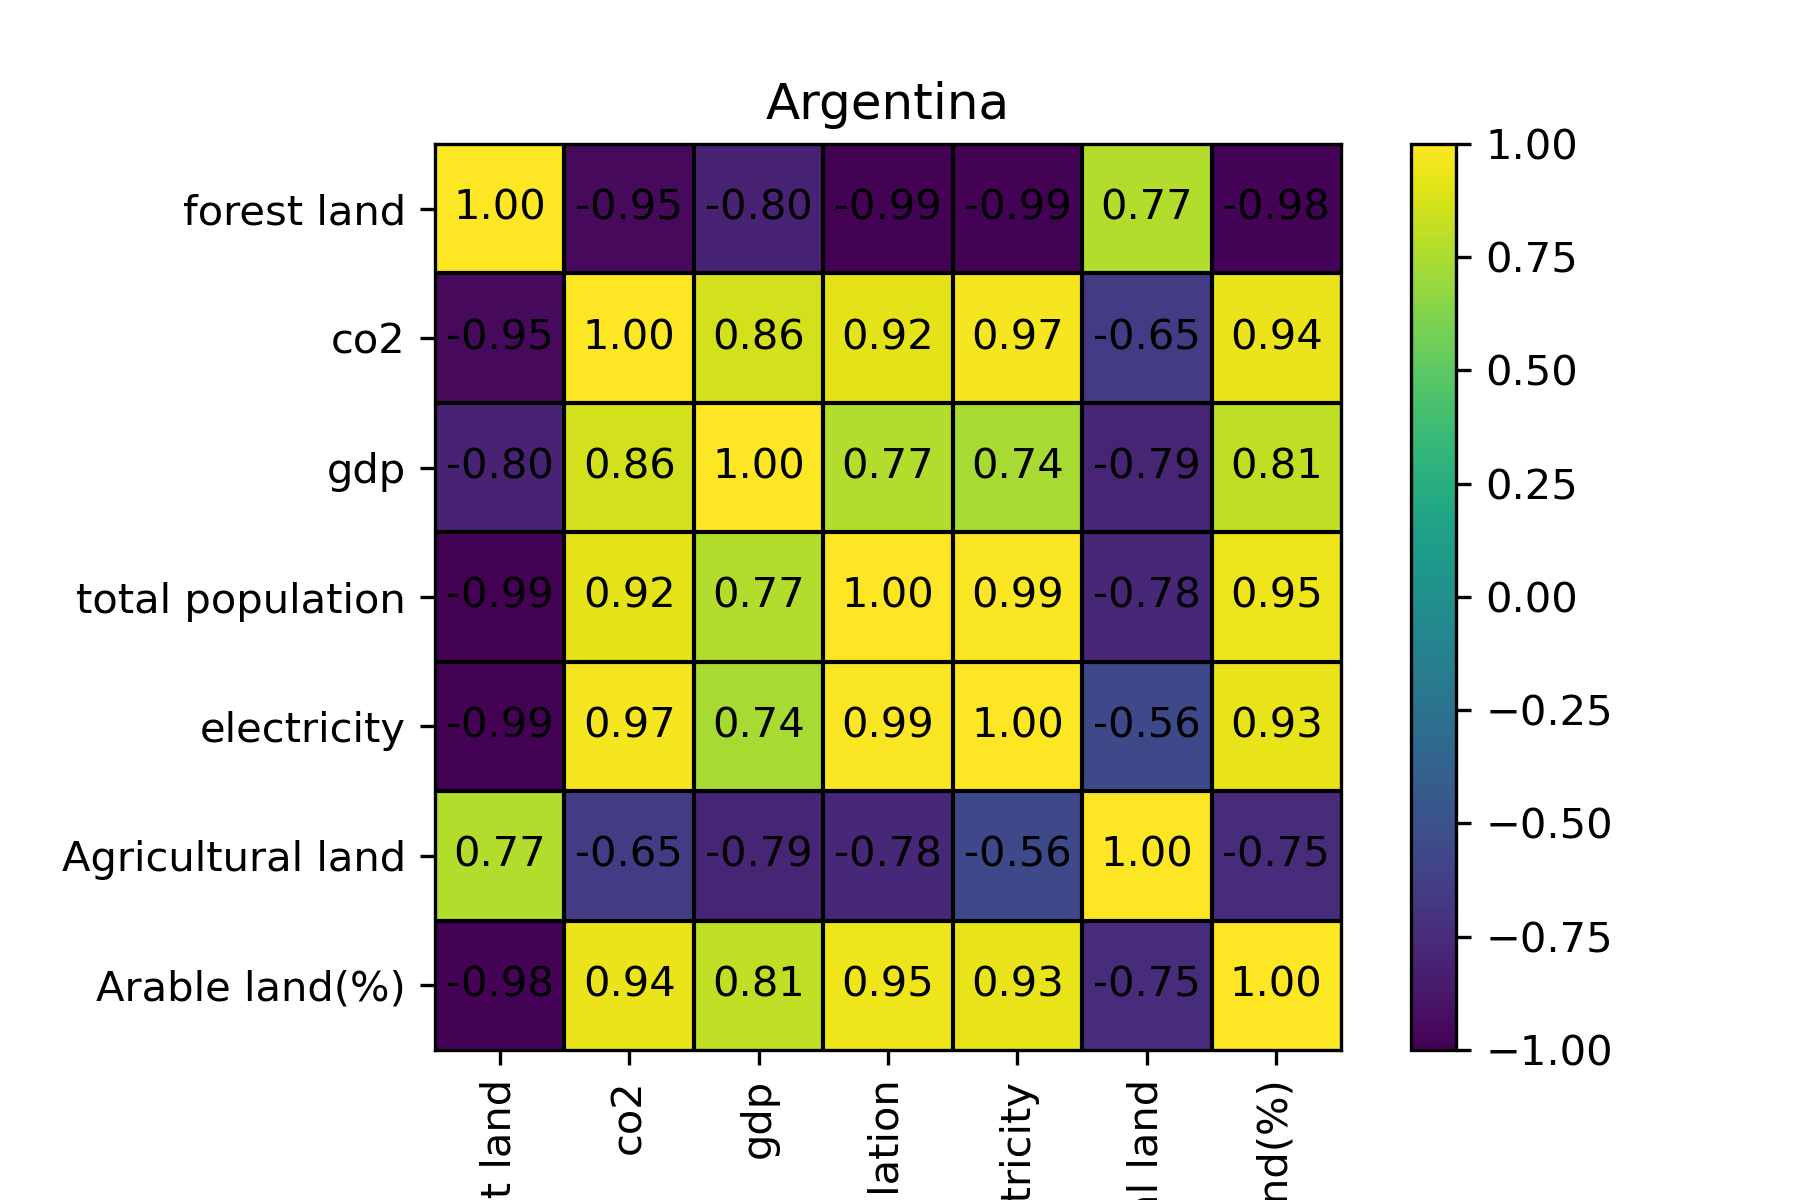
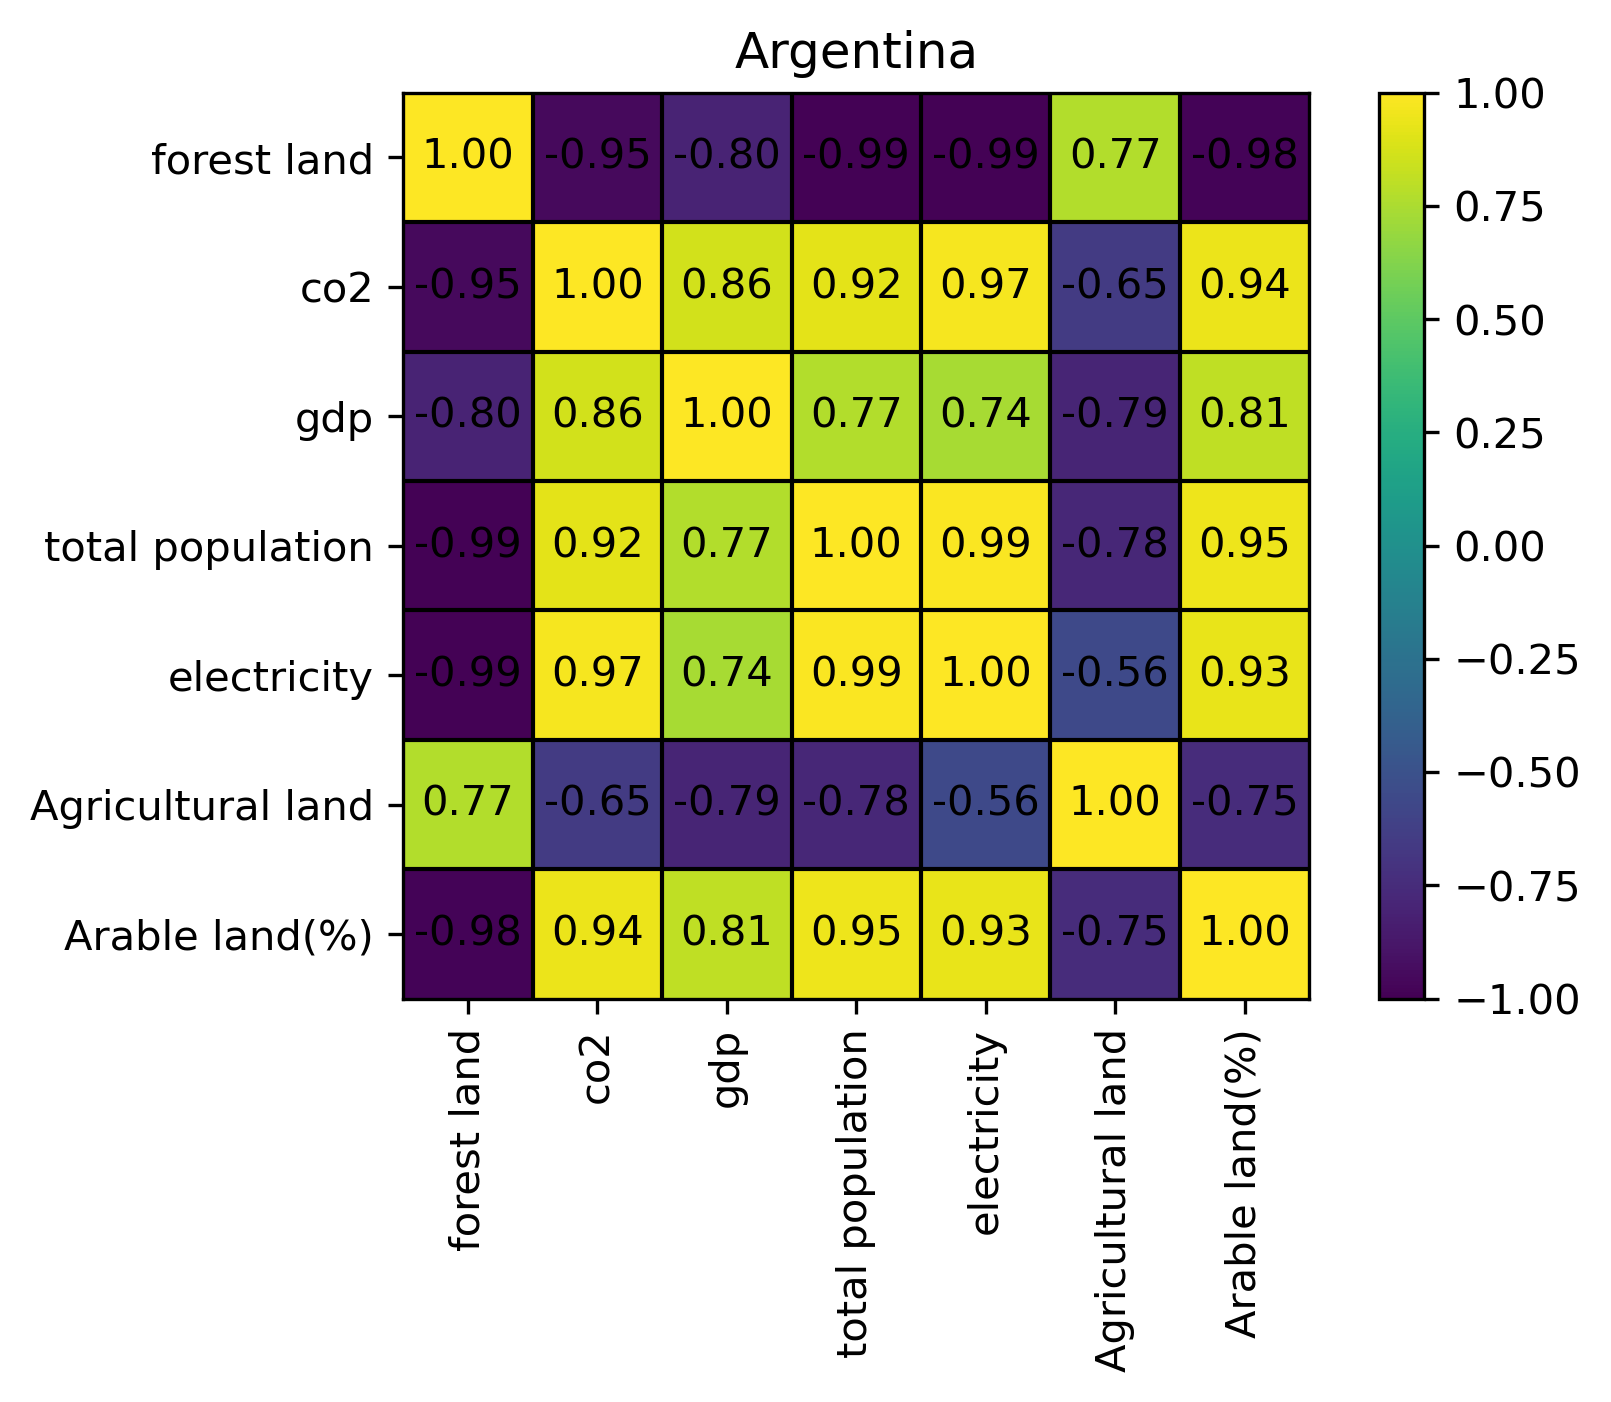
code refactor and add doc string and comments. Also update code to save heigh resolution image

diff --git a/assigment2.py b/assigment2.py
@@ -12,22 +12,24 @@ import matplotlib.pyplot as plt
 
 def read_world_bank_csv(filename):
     """
-    Accept the filename and reads csv in worldbank data formate. 
-
-    and processes and prepare two dataframes by yeas as columns and country 
-    as columns.
+    Accept the csv filename with worldbank data format.
+    Read file and processes and prepare two dataframes by yeas as index
+    and country as index.
 
     Parameters
     ----------
     filename : string
-        input the file name.
+        nput the csv file name..
 
     Returns
     -------
-    pandas dataframe
-        return two dataframes.
+    df_year_index : pandas.DataFrame
+        DataFrame with years as index.
+    df_country_index : pandas.DataFrame
+        DataFrame with country as index.
 
     """
+    # set year range and country list to filter dataset
     start_from_yeart = 1990
     end_to_year = 2020
     countrie_list = ["Brazil", "Indonesia", "Russian Federation", "Argentina",
@@ -36,178 +38,192 @@ def read_world_bank_csv(filename):
     # read csv using pandas
     wb_df = pd.read_csv(filename,
                         skiprows=3, iterator=False)
+
+    # clean na data, remove columns
     wb_df.dropna(axis=1)
+
+    # prepare column list to select from dataset
     years_column_list = np.arange(
         start_from_yeart, (end_to_year+1)).astype(str)
     all_cols_list = ["Country Name"] + list(years_column_list)
 
-    # Filter data: select only specific countries and years
+    # filter data: select only specific countries and years
     df_country_index = wb_df.loc[
         wb_df["Country Name"].isin(countrie_list),
         all_cols_list]
-    
-    #make country as index
+
+    # make country as index and then drop column as it is become index
     df_country_index.index = df_country_index["Country Name"]
-    # remove first row as it is become index
     df_country_index.drop("Country Name", axis=1, inplace=True)
-   
-    #convert year columns as interger
+
+    # convert year columns as interger
     df_country_index.columns = df_country_index.columns.astype(int)
 
-    # Transpose
+    # Transpose dataframe and make country as index
     df_year_index = pd.DataFrame.transpose(df_country_index)
-   
+
+    # return the two dataframes year as index and country as index
     return df_year_index, df_country_index
 
 
-def normalise_data(df):
+def normalise_data(df_to_normal):
     """
-
+    Normalise the dataset within 0 to 100 range.
 
     Parameters
     ----------
-    df : TYPE
-        DESCRIPTION.
+    df_to_normal : pandas.DataFrame
+        dataframe to be normalise
 
     Returns
     -------
-    df_n : TYPE
-        DESCRIPTION.
+    df_nornal : pandas.DataFrame
+        normalise data.
 
     """
-    # dfmin = np.min(np.min(df))
-    # dfmax = np.max(np.max(df))
-    dfmin = df.min()
-    dfmax = df.max()
-    df_n = (df-dfmin)/(dfmax-dfmin) * 100
-    return df_n
+    # get the min and max from the data
+    dfmin = df_to_normal.min()
+    dfmax = df_to_normal.max()
+
+    # apply formula and normalise data
+    df_nornal = (df_to_normal-dfmin)/(dfmax-dfmin) * 100
+    return df_nornal
 
 
-def print_statics(title, df, country="All"):
+def print_statics_summary(title, df_for_stat, country="All"):
     """
-    
+    Shoe statics summary of dataset like describe function output, kurtosis,
+    skew and median
 
     Parameters
     ----------
-    title : TYPE
-        DESCRIPTION.
-    df : TYPE
-        DESCRIPTION.
+    title : string
+        Title of the summary.
+    df_for_stat : pandas.DataFrame
+        dataframe for which statics summary display.
+    country : string, optional
+        filter summery for specify country. The default is "All".
 
     Returns
     -------
     None.
 
     """
-    if(country!="All"):
-        df = df[country]
-        title = title+"(" + country +")"
-    print("\n====",  (title+" ").ljust(65, "=")  )
-    
-    
-    
-    # print describe function,it will display count, mean, std, min..etc 
-    df_describe = df.describe()
-    
-    # add two other statics method kurtosis 
-    # to see the tailedness vs heavy tails 
-    # and skew to see skewness(Negative, Positive , Zero)
-    df_describe.loc["kurtosis"]  = df.kurtosis()
-    df_describe.loc["skew"]  = df.skew()
-    df_describe.loc["median"]  = df.median()
+    # check if country is passed in parameter, then filter the supplied
+    # dataframe else process all country
+    if (country != "All"):
+        df_for_stat = df_for_stat[country]
+        title = title+"(" + country + ")"
+    print("\n====",  (title+" ").ljust(65, "="))
 
+    # print describe function,it will display count, mean, std, min..etc
+    df_describe = df_for_stat.describe()
+
+    # add three other statics method kurtosis
+    # to see the tailedness vs heavy tails
+    # and skew to see skewness(Negative, Positive , Zero) and median
+    df_describe.loc["kurtosis"] = df_for_stat.kurtosis()
+    df_describe.loc["skew"] = df_for_stat.skew()
+    df_describe.loc["median"] = df_for_stat.median()
+
+    # print summary
     print(df_describe)
-    print("".ljust(70, "=") ,"\n")
+    print("".ljust(70, "="), "\n")
 
 
-def plot_and_save_line_chart(fig_name, title, xlabel, ylabel, df):
+def plot_and_save_line_chart(df_chart, title, xlabel, ylabel, fig_name):
     """
-    
+    Create line chart using df_chart dataframe and save the figure on disk.
 
     Parameters
     ----------
-    fig_name : TYPE
-        DESCRIPTION.
-    title : TYPE
-        DESCRIPTION.
-    xlabel : TYPE
-        DESCRIPTION.
-    ylabel : TYPE
-        DESCRIPTION.
-    df : TYPE
-        DESCRIPTION.
+    df_chart : pandas.DataFrame
+        create line chart for df_chart.
+    title : string
+        title of the chart.
+    xlabel : string
+        set x label.
+    ylabel : string
+        set y label.
+    fig_name : string
+        chart image name.
 
     Returns
     -------
     None.
 
     """
-    plt.figure(figsize=(10, 6))
-    ap = df.plot(title=title)
-    # ap.set_ylim(0,100)
+    # plot line chart and set xlabel and ylabel
+    plt.figure()
+    plot = df_chart.plot(title=title)
+    plot.set_xlabel(xlabel)
+    plot.set_ylabel(ylabel)
     
-    ap.set_xlabel(xlabel)
-    ap.set_ylabel(ylabel)
-    fig = ap.get_figure()
-    fig.savefig(fig_name, dpi=300)
+    # get figure object from pandas plot and save the image on disk
+    fig = plot.get_figure()
+    fig.savefig(fig_name, dpi=300, bbox_inches="tight")
 
 
-def plot_and_save_bar_chart(fig_name, title, xlabel, ylabel, df):
+def plot_and_save_bar_chart(df_chart, title, xlabel, ylabel, fig_name):
     """
-    
+    Create bar chart using df_chart dataframe and save the figure on disk.
 
     Parameters
     ----------
-    fig_name : TYPE
-        DESCRIPTION.
-    title : TYPE
-        DESCRIPTION.
-    xlabel : TYPE
-        DESCRIPTION.
-    ylabel : TYPE
-        DESCRIPTION.
-    df : TYPE
-        DESCRIPTION.
+    df_chart : pandas.DataFrame
+        create bar chart for df_chart.
+    title : string
+        title of the chart.
+    xlabel : string
+        set x label.
+    ylabel : string
+        set y label.
+    fig_name : string
+        chart image name.
 
     Returns
     -------
     None.
 
     """
-    plt.figure(figsize=(10, 6))
-    ap = df.plot.bar(title=title)
-    # ap.set_ylim(0,100)
-    ap.set_xlabel(xlabel)
-    ap.set_ylabel(ylabel)
-    fig = ap.get_figure()
-    fig.savefig(fig_name, dpi=300)
+    # select specific years only and plot the bar chart
+    plot = df_chart.loc[:, [1990, 2000, 2010, 2020]].plot.bar(title=title,
+                                                                      rot=45)
+    plot.set_xlabel(xlabel)
+    plot.set_ylabel(ylabel)
     
-    
-def plot_and_save_heat_map(country, dict_label_dataset):
-    """
+    # get figure object from pandas plot and save the image on disk
+    fig = plot.get_figure()
+    fig.savefig(fig_name, dpi=300, bbox_inches="tight")
 
+
+def plot_and_save_heatmap(country, dict_label_dataset):
+    """
+    Create heatmap for country with differnt paramters 
+    and display it's correlation.
 
     Parameters
     ----------
-    title : TYPE
-        DESCRIPTION.
-    country : TYPE
-        DESCRIPTION.
-    dict_label_dataset : TYPE
-        DESCRIPTION.
+    country : string
+        filter dataset with country.
+    dict_label_dataset : dict
+        dictionary list of the key pair, where key is parameter name 
+        and values is dataset.
 
     Returns
     -------
     None.
 
     """
-    plt.figure(figsize=(10, 6))
+    # create blank dataframe
     result = pd.DataFrame()
+    
+    
     for lbl in dict_label_dataset:
         result[lbl] = dict_label_dataset[lbl][[
             country]].values.flatten().tolist()
 
-    corr = result.corr(numeric_only=True).round(2)
+    corr = result.corr().round(2)
     plt.figure()
     plt.imshow(corr, vmin=-1, vmax=1)
 
@@ -221,10 +237,10 @@ def plot_and_save_heat_map(country, dict_label_dataset):
         plt.axhline(i + 0.5, color='black', linewidth=1)
         plt.axvline(i + 0.5, color='black', linewidth=1)
 
-    for (i, j), z in np.ndenumerate(corr):
-        plt.text(j, i, '{:0.2f}'.format(z), ha='center', va='center')
+    for (i, j), corr_val in np.ndenumerate(corr):
+        plt.text(j, i, f'{corr_val:0.2f}', ha='center', va='center')
     plt.title(country)
-    plt.savefig(country+".png", dpi=300)
+    plt.savefig(country+".png", dpi=300, bbox_inches="tight")
 
 
 ###### Main Function ################
@@ -252,23 +268,21 @@ arab_lnd_yw, arab_lnd_cw = \
     read_world_bank_csv("API_AG.LND.ARBL.ZS_DS2_en_csv_v2_5995308.csv")
 
 # print statics
-print_statics("Forest land statics",frst_lnd_data_yw,"Argentina")
-print_statics("CO2",co2_data_yw)
+print_statics_summary("Forest land statics", frst_lnd_data_yw, "Argentina")
+print_statics_summary("CO2", co2_data_yw)
 
 # plot chats
-plot_and_save_line_chart("forest.png", "Forest area (% of land area)", "Year",
-                         "%", frst_lnd_data_yw)
+plot_and_save_bar_chart(frst_lnd_data_cw, "Forest area (% of land area)",
+                        "", "%", "forest.png")
 
-co2_data_yw_n = normalise_data(co2_data_yw)
-plot_and_save_line_chart("co2.png", "CO2 emissions (kt)", "Year", "kt",
-                         co2_data_yw_n)
+plot_and_save_bar_chart(co2_data_cw, "CO2 emissions (kt)", "", "kt", "co2.png")
 
 
-plot_and_save_line_chart("electric.png",
+plot_and_save_line_chart(ele_data_yw,
                          "Electric power consumption (kWh per capita)", "Year",
-                         "kWh", ele_data_yw)
-plot_and_save_line_chart("population.png", "Population, total", "Year", "",
-                         ele_data_yw)
+                         "kWh", "electric.png")
+plot_and_save_line_chart(ele_data_yw, "Population, total", "Year", "",
+                         "population.png")
 
 # prepare heat map dictonary label with it's dataframe
 dict_heat_map = {
@@ -281,13 +295,10 @@ dict_heat_map = {
     "Arable land(%)": arab_lnd_yw
 }
 
-#plot heat map
-plot_and_save_heat_map("Argentina", dict_heat_map)
-plot_and_save_heat_map("Brazil", dict_heat_map)
-plot_and_save_heat_map("Nigeria", dict_heat_map)
-
-print(gdp_data_yw)
+# plot heat map
+plot_and_save_heatmap("Argentina", dict_heat_map)
+plot_and_save_heatmap("Brazil", dict_heat_map)
+plot_and_save_heatmap("Nigeria", dict_heat_map)
 
 
 plt.show()
-
